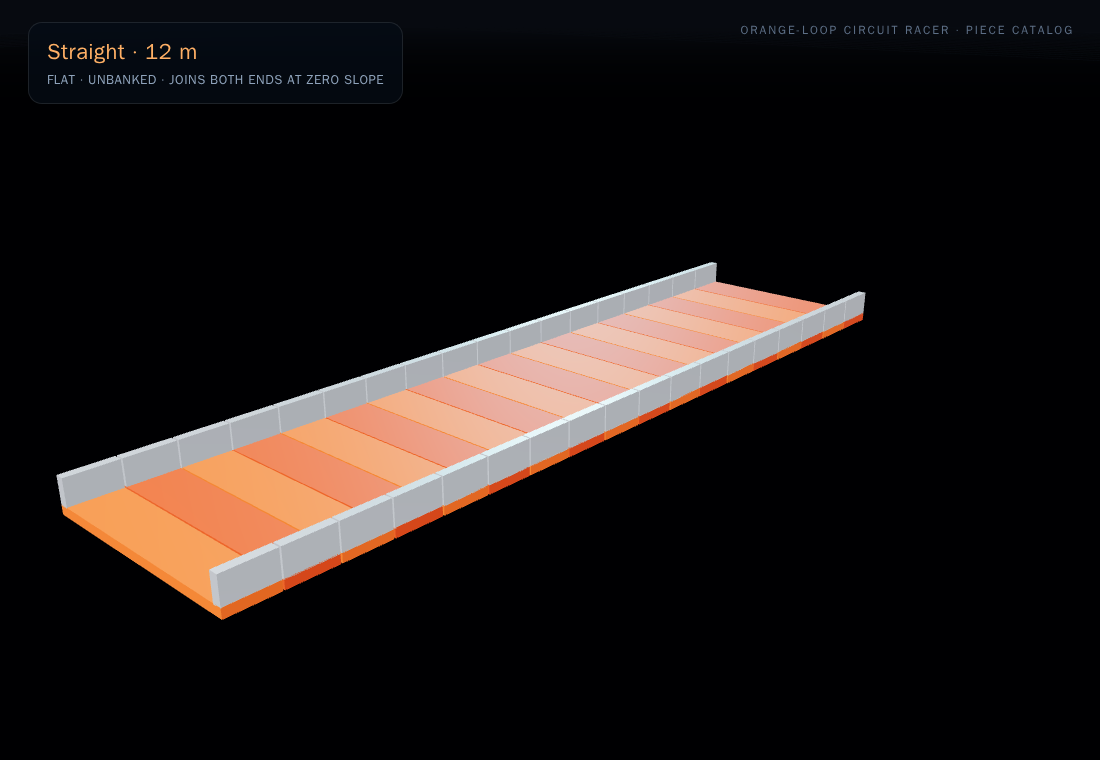
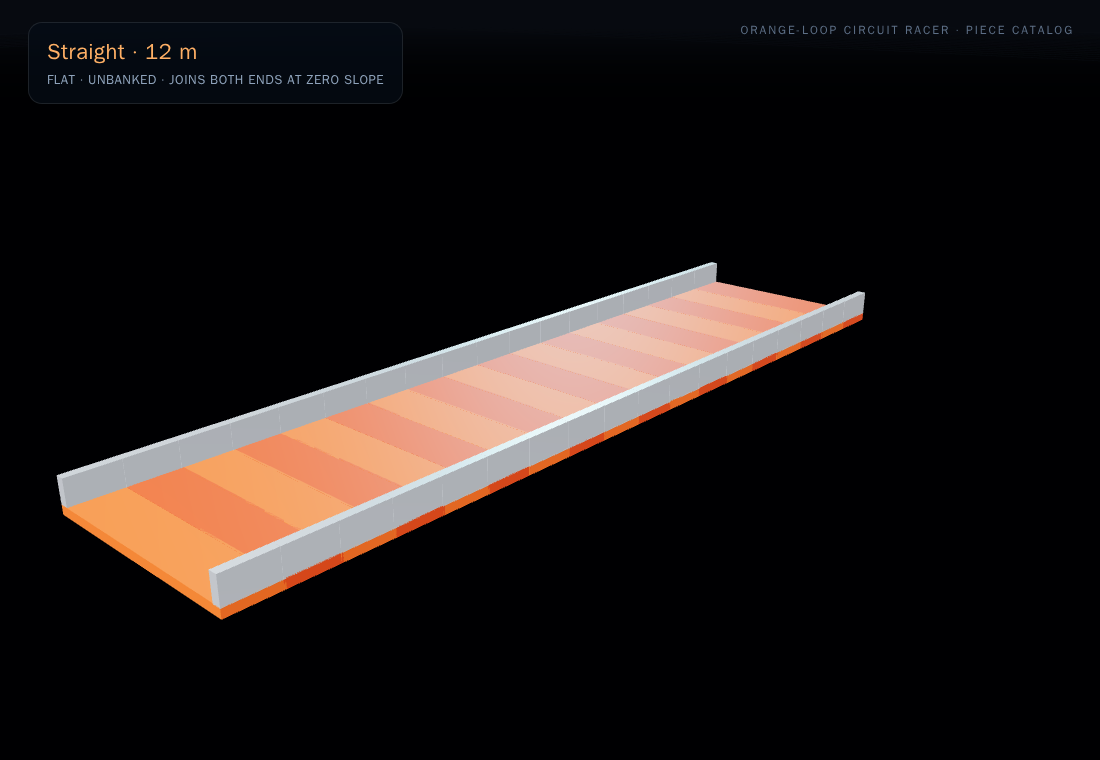
Finish the asset catalog: clean supports, index, and docs
- Support pillars stop at the plank underside, removing the z-fighting
  diamonds that showed through the hill and banked surfaces.
- Add assets/README.md indexing every render, the piece dimensions, and
  the regeneration steps.
- Record the asset catalog and its render command in the spec change and
  the README project structure.

Verified with npm run check and a full npm run assets render.

diff --git a/assets/README.md b/assets/README.md
@@ -1,0 +1,56 @@
+# Asset catalog
+
+Rendered references for every gameplay asset. These images are documentation and
+design review material, not files loaded at runtime: the game builds all geometry
+and textures procedurally, and still downloads no models, textures, or fonts.
+
+Regenerate the whole catalog with:
+
+```bash
+npm run assets                 # all assets
+npm run assets -- car cockpit  # only the named ones
+```
+
+Rendering is deterministic: `tools/preview/` rebuilds each asset from the same
+parametric definitions the game uses, in headless Chromium with three.js.
+
+## Track pieces
+
+| Piece | Image | Geometry | Notes |
+| --- | --- | --- | --- |
+| Straight | ![straight](track/straight-12.png) | 12 m, flat | Joins both ends at zero slope |
+| Bend | ![bend](track/turn-45-r18.png) | 45°, R18 | Bank ~39° at 12 m/s |
+| Turn | ![turn](track/turn-90-r14.png) | 90°, R14 | Bank ~45° at 12 m/s |
+| Hairpin | ![hairpin](track/turn-180-r10.png) | 180°, R10 | Bank clamped at 45° |
+| Loop | ![loop](track/loop-r7.png) | R7 vertical, 360° | Entry frame equals exit frame |
+| Hill | ![hill](track/hill-crest-2.5.png) | 16 m, crest 2.5 m | Zero slope at both ends |
+| Boost straight | ![boost](track/boost-12.png) | 12 m + armed strip | Chevrons face the driving direction |
+
+All pieces are 3.0 m wide (three car widths), 0.12 m thick, with 0.35 m guide
+rails, and start and end unbanked so any two pieces join cleanly.
+
+## Car
+
+![car](car/car-hero.png)
+
+Die-cast proportions: 2.2 × 1.0 × 0.7 m, 1.34 m wheelbase, oversized rear
+wheels, exposed chrome engine and intake stacks, hood scoop, rear spoiler, side
+exhausts, and a generated flame livery. Paint, chrome, tyre, and rim materials
+are shared with the game.
+
+## Cockpit
+
+![cockpit](cockpit/cockpit-view.png)
+
+Driver's-eye view: a generated dashboard texture (speed, damage, lap, timer) on a
+single plane, a simple steering wheel, and the hood. No modelled interior, no
+downloaded art. In the game the rig is attached to the cockpit camera, and the
+exterior shell is hidden to keep the view clear.
+
+## Adding a piece
+
+1. Add a path function and an entry in `PIECES` in `tools/preview/preview.mjs`.
+2. Add the piece to `PIECES` in `tools/render-assets.mjs`.
+3. Run `npm run assets`.
+4. Copy the render into this table and update `openspec/changes/` for the new
+   geometry.

diff --git a/openspec/changes/orange-loop-circuit-racer/design.md b/openspec/changes/orange-loop-circuit-racer/design.md
@@ -86,6 +86,22 @@ the gate share materials; no geometry is created during a race.
 Visual language: saturated orange surface with darker seams, light-grey rails,
 dark supports, chevron boost strips, and a start/finish gate with a timing line.
 
+## Asset catalog
+
+Every gameplay asset has a rendered reference in `assets/`:
+
+```
+assets/track/    straight, 45/90/180 turns, loop, hill, boost straight
+assets/car/      die-cast car hero render
+assets/cockpit/  driver's-eye rig with the generated dashboard
+```
+
+`tools/preview/` builds each asset from the same parametric definitions the game
+uses and renders it in headless Chromium with three.js; `npm run assets`
+regenerates the catalog. The renders are documentation only: the game still
+loads no models, textures, or fonts at runtime, and the catalog is excluded from
+the production bundle.
+
 ## Physics
 
 ### Adapter

diff --git a/openspec/changes/orange-loop-circuit-racer/tasks.md b/openspec/changes/orange-loop-circuit-racer/tasks.md
@@ -16,6 +16,7 @@ cover anything that needs WebGL, physics, or a device sensor.
 - [ ] 2.1 Build orange planks, guide rails, supports, boost chevrons, and a start/finish gate from the sampled frames, sharing materials. Verified by screenshots in both cameras.
 - [ ] 2.2 Keep geometry static for the whole race and dispose it with the scene. Verified by a manual memory check over three races.
 - [ ] 2.3 Verify supports reach the ground outside loops and that no plank floats. Verified by screenshots and a geometry unit test.
+- [ ] 2.4 Render the catalog into `assets/track`, `assets/car`, and `assets/cockpit` with `npm run assets`, and keep `assets/README.md` indexed. Verified by reviewing the renders.
 
 ## 3. Physics backend and spike
 

diff --git a/README.md b/README.md
@@ -95,7 +95,9 @@ src/
     constants.ts     all tuning values
 public/              manifest, service worker, generated icons, favicon
 scripts/             deterministic PWA icon generator
+assets/              rendered catalog: track pieces, car, cockpit
 build/               bundle budget, service worker cache stamping
+tools/               asset preview renderer (three.js in headless Chromium)
 e2e/                 Playwright browser smoke tests
 openspec/            behavior and deployment specs
 ```
